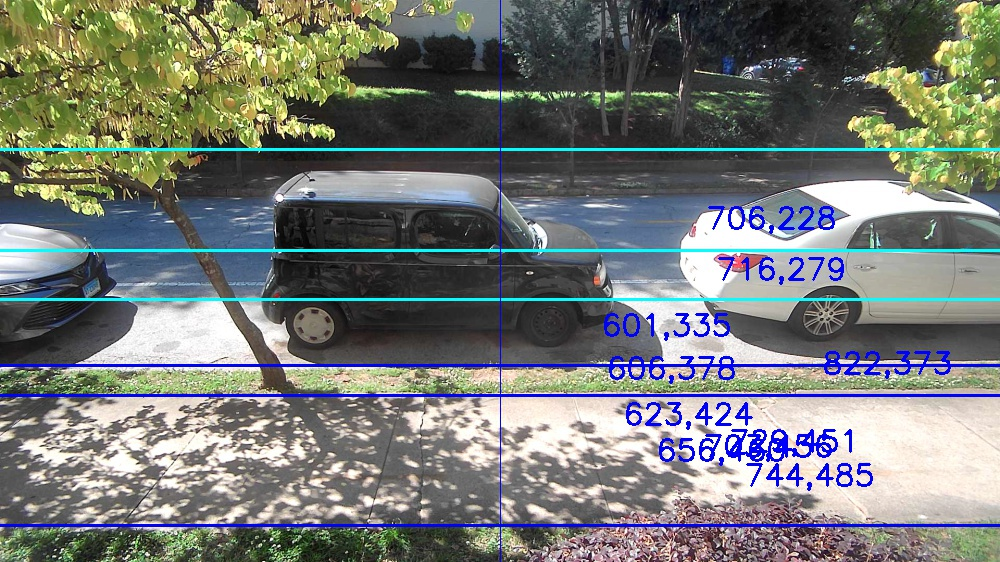
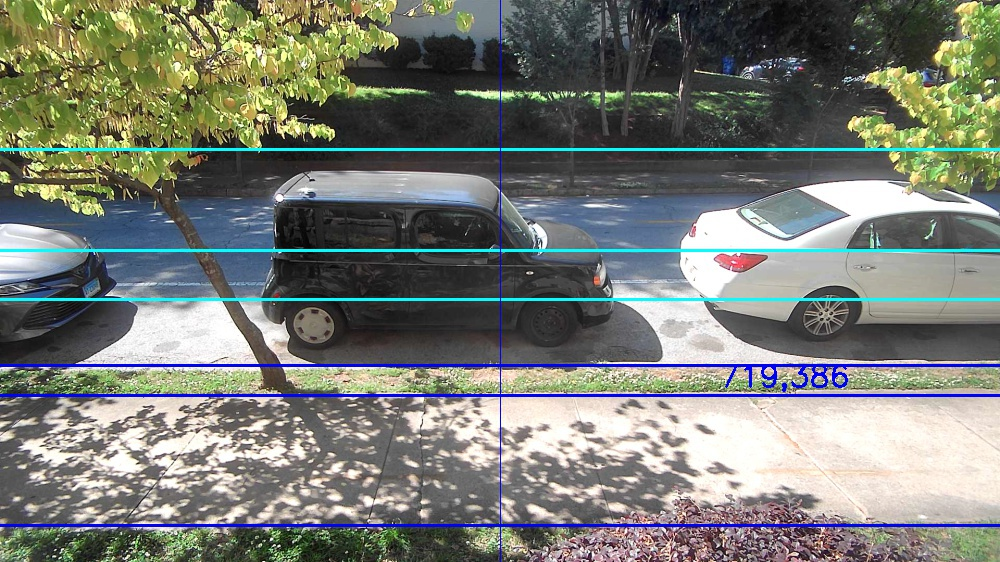
added server

diff --git a/pw_server.py b/pw_server.py
@@ -1,0 +1,140 @@
+import socket
+import select
+
+HEADER_LENGTH = 10
+
+IP = "127.0.0.1"
+PORT = 1234
+
+# Create a socket
+# socket.AF_INET - address family, IPv4, some otehr possible are AF_INET6, AF_BLUETOOTH, AF_UNIX
+# socket.SOCK_STREAM - TCP, conection-based, socket.SOCK_DGRAM - UDP, connectionless, datagrams, socket.SOCK_RAW - raw IP packets
+server_socket = socket.socket(socket.AF_INET, socket.SOCK_STREAM)
+
+# SO_ - socket option
+# SOL_ - socket option level
+# Sets REUSEADDR (as a socket option) to 1 on socket
+server_socket.setsockopt(socket.SOL_SOCKET, socket.SO_REUSEADDR, 1)
+
+# Bind, so server informs operating system that it's going to use given IP and port
+# For a server using 0.0.0.0 means to listen on all available interfaces, useful to connect locally to 127.0.0.1 and remotely to LAN interface IP
+server_socket.bind((IP, PORT))
+
+# This makes server listen to new connections
+server_socket.listen()
+
+# List of sockets for select.select()
+sockets_list = [server_socket]
+
+# List of connected clients - socket as a key, user header and name as data
+clients = {}
+
+print(f'Listening for connections on {IP}:{PORT}...')
+
+# Handles message receiving
+def receive_message(client_socket):
+
+    try:
+
+        # Receive our "header" containing message length, it's size is defined and constant
+        message_header = client_socket.recv(HEADER_LENGTH)
+
+        # If we received no data, client gracefully closed a connection, for example using socket.close() or socket.shutdown(socket.SHUT_RDWR)
+        if not len(message_header):
+            return False
+
+        # Convert header to int value
+        message_length = int(message_header.decode('utf-8').strip())
+
+        # Return an object of message header and message data
+        return {'header': message_header, 'data': client_socket.recv(message_length)}
+
+    except:
+
+        # If we are here, client closed connection violently, for example by pressing ctrl+c on his script
+        # or just lost his connection
+        # socket.close() also invokes socket.shutdown(socket.SHUT_RDWR) what sends information about closing the socket (shutdown read/write)
+        # and that's also a cause when we receive an empty message
+        return False
+
+while True:
+
+    # Calls Unix select() system call or Windows select() WinSock call with three parameters:
+    #   - rlist - sockets to be monitored for incoming data
+    #   - wlist - sockets for data to be send to (checks if for example buffers are not full and socket is ready to send some data)
+    #   - xlist - sockets to be monitored for exceptions (we want to monitor all sockets for errors, so we can use rlist)
+    # Returns lists:
+    #   - reading - sockets we received some data on (that way we don't have to check sockets manually)
+    #   - writing - sockets ready for data to be send thru them
+    #   - errors  - sockets with some exceptions
+    # This is a blocking call, code execution will "wait" here and "get" notified in case any action should be taken
+    read_sockets, _, exception_sockets = select.select(sockets_list, [], sockets_list)
+
+
+    # Iterate over notified sockets
+    for notified_socket in read_sockets:
+
+        # If notified socket is a server socket - new connection, accept it
+        if notified_socket == server_socket:
+
+            # Accept new connection
+            # That gives us new socket - client socket, connected to this given client only, it's unique for that client
+            # The other returned object is ip/port set
+            client_socket, client_address = server_socket.accept()
+
+            # Client should send his name right away, receive it
+            user = receive_message(client_socket)
+
+            # If False - client disconnected before he sent his name
+            if user is False:
+                continue
+
+            # Add accepted socket to select.select() list
+            sockets_list.append(client_socket)
+
+            # Also save username and username header
+            clients[client_socket] = user
+
+            print('Accepted new connection from {}:{}, username: {}'.format(*client_address, user['data'].decode('utf-8')))
+
+        # Else existing socket is sending a message
+        else:
+
+            # Receive message
+            message = receive_message(notified_socket)
+
+            # If False, client disconnected, cleanup
+            if message is False:
+                print('Closed connection from: {}'.format(clients[notified_socket]['data'].decode('utf-8')))
+
+                # Remove from list for socket.socket()
+                sockets_list.remove(notified_socket)
+
+                # Remove from our list of users
+                del clients[notified_socket]
+
+                continue
+
+            # Get user by notified socket, so we will know who sent the message
+            user = clients[notified_socket]
+
+            print(f'Received message from {user["data"].decode("utf-8")}: {message["data"].decode("utf-8")}')
+
+            # Iterate over connected clients and broadcast message
+            for client_socket in clients:
+
+                # But don't sent it to sender
+                if client_socket != notified_socket:
+
+                    # Send user and message (both with their headers)
+                    # We are reusing here message header sent by sender, and saved username header send by user when he connected
+                    client_socket.send(user['header'] + user['data'] + message['header'] + message['data'])
+
+    # It's not really necessary to have this, but will handle some socket exceptions just in case
+    for notified_socket in exception_sockets:
+
+        # Remove from list for socket.socket()
+        sockets_list.remove(notified_socket)
+
+        # Remove from our list of users
+        del clients[notified_socket]

diff --git a/vehicle/car.py b/vehicle/car.py
@@ -1,0 +1,81 @@
+import socket
+import errno
+
+HEADER_LENGTH = 10
+
+IP = "127.0.0.1"
+PORT = 1234
+my_username = input("Username: ")
+
+# Create a socket
+# socket.AF_INET - address family, IPv4, some other possible are AF_INET6, AF_BLUETOOTH, AF_UNIX
+# socket.SOCK_STREAM - TCP, conection-based, socket.SOCK_DGRAM - UDP, connectionless, datagrams, socket.SOCK_RAW - raw IP packets
+client_socket = socket.socket(socket.AF_INET, socket.SOCK_STREAM)
+
+# Connect to a given ip and port
+client_socket.connect((IP, PORT))
+
+# Set connection to non-blocking state, so .recv() call won;t block, just return some exception we'll handle
+client_socket.setblocking(False)
+
+# Prepare username and header and send them
+# We need to encode username to bytes, then count number of bytes and prepare header of fixed size, that we encode to bytes as well
+username = my_username.encode('utf-8')
+username_header = f"{len(username):<{HEADER_LENGTH}}".encode('utf-8')
+client_socket.send(username_header + username)
+
+while True:
+
+    # Wait for user to input a message
+    message = input(f'{my_username} > ')
+
+    # If message is not empty - send it
+    if message:
+
+        # Encode message to bytes, prepare header and convert to bytes, like for username above, then send
+        message = message.encode('utf-8')
+        message_header = f"{len(message):<{HEADER_LENGTH}}".encode('utf-8')
+        client_socket.send(message_header + message)
+
+    try:
+        # Now we want to loop over received messages (there might be more than one) and print them
+        while True:
+
+            # Receive our "header" containing username length, it's size is defined and constant
+            username_header = client_socket.recv(HEADER_LENGTH)
+
+            # If we received no data, server gracefully closed a connection, for example using socket.close() or socket.shutdown(socket.SHUT_RDWR)
+            if not len(username_header):
+                print('Connection closed by the server')
+                sys.exit()
+
+            # Convert header to int value
+            username_length = int(username_header.decode('utf-8').strip())
+
+            # Receive and decode username
+            username = client_socket.recv(username_length).decode('utf-8')
+
+            # Now do the same for message (as we received username, we received whole message, there's no need to check if it has any length)
+            message_header = client_socket.recv(HEADER_LENGTH)
+            message_length = int(message_header.decode('utf-8').strip())
+            message = client_socket.recv(message_length).decode('utf-8')
+
+            # Print message
+            print(f'{username} > {message}')
+
+    except IOError as e:
+        # This is normal on non blocking connections - when there are no incoming data error is going to be raised
+        # Some operating systems will indicate that using AGAIN, and some using WOULDBLOCK error code
+        # We are going to check for both - if one of them - that's expected, means no incoming data, continue as normal
+        # If we got different error code - something happened
+        if e.errno != errno.EAGAIN and e.errno != errno.EWOULDBLOCK:
+            print('Reading error: {}'.format(str(e)))
+            sys.exit()
+
+        # We just did not receive anything
+        continue
+
+    except Exception as e:
+        # Any other exception - something happened, exit
+        print('Reading error: '.format(str(e)))
+        sys.exit()

diff --git a/measure_functions.py b/measure_functions.py
@@ -14,15 +14,19 @@ def get_coordinate(xp,yp):
 
     # p3 (selected point)
     p3 = np.array((xp,yp))
+  
     # p4 (vanishing point at infinity)
     p4 = np.array(vp)  
 
     delta_x = p3[0] - p4[0]
     delta_y = p3[1] - p4[1]
     hyp = np.sqrt(delta_x**2 + delta_y**2)
+
+    # theta in [-pi/2, pi/2]
     cos_theta = delta_y / hyp
     sin_theta = delta_x / hyp
     tan_theta = delta_x / delta_y
+    # print(np.arctan(tan_theta)*180/np.pi)
 
     # compute the ratio
     # the points are 
@@ -34,9 +38,9 @@ def get_coordinate(xp,yp):
     p1_y = param.yp_sw_close
     p2_y = param.yp_sw_far
 
-    p1_x = p4[0] - tan_theta*(p4[1] - p1_y)
+    p1_x = p4[0] + (p1_y - p4[1])*tan_theta
     p1 = np.array((p1_x,p1_y))
-    p2_x = p4[0] - tan_theta*(p4[1] - p2_y)
+    p2_x = p4[0] + (p2_y - p4[1])*tan_theta
     p2 = np.array((p2_x,p2_y))
 
     # compute ratio
@@ -55,7 +59,7 @@ def get_coordinate(xp,yp):
     # compute D, the distance from p2 to p3
     cross_ratio = (d_p1p3*d_p2p4)/(d_p2p3*d_p1p4)
 
-    if p3[1] > param.yp_sw_far:
+    if p3[1] < param.yp_sw_far:
         D_P2P3 = d_P1P2/(cross_ratio - 1)
         P3_Y = cos_theta*D_P2P3 + P2_Y
     else:
@@ -63,6 +67,7 @@ def get_coordinate(xp,yp):
         P3_Y = P2_Y - cos_theta*D_P2P3
     
     print(P3_Y)
+    # need to figure out x coordinate
     
 
 def coordinate_click_event(event, x, y, flags, img):

diff --git a/main.py b/main.py
@@ -3,9 +3,13 @@ import numpy as np
 import argparse
 import cv2
 import time
+import socket
+import pickle
 import localizer_params as param
 import drawing_functions as drw
 import measure_functions as meas
+
+HEADERSIZE = 10 
 
 # construct the argument parse and parse the arguments
 ap = argparse.ArgumentParser()
@@ -13,7 +17,10 @@ ap.add_argument("-s", "--source",
 	help = "specify v for video feed or img file for static image.")
 ap.add_argument("-v", "--verbose",
 	help = "various functions will provide extra information.")
+ap.add_argument("-c", "--connect", action = "store_true",
+	help = "Connect to server and send data.")
 args = vars(ap.parse_args())
+
 
 if args['source'] == 'v':
 	# get video stream
@@ -22,13 +29,13 @@ if args['source'] == 'v':
 else:
 	img = args['source']
 	frame = cv2.imread(img)
+
+if args['connect'] == True:
+	s = socket.socket(socket.AF_INET, socket.SOCK_STREAM)
+	s.connect((socket.gethostname(), 1234))
 	
-
-
-# set properties of frame
-# time.sleep(2.0)
-
 while True:
+
 	if args['source'] == 'v':
 		ret, frame = cap.read()
 

diff --git a/vehicle/clienty.py b/vehicle/clienty.py
@@ -1,0 +1,37 @@
+import socket
+import pickle
+
+HEADERSIZE = 10 
+
+s = socket.socket(socket.AF_INET, socket.SOCK_STREAM)
+s.connect((socket.gethostname(), 1234))
+
+while True:
+    full_msg = b''
+    new_msg = True
+
+    while True:
+        
+        msg = s.recv(16) # buffer in number of bytes
+        if new_msg:
+            print(f"new message length: {msg[:HEADERSIZE]}")
+            msglen = int(msg[:HEADERSIZE])
+            new_msg = False
+        
+        print(msg)
+        full_msg += msg
+
+        if len(full_msg)-HEADERSIZE == msglen:
+            print("full msg recvd")
+            print(full_msg[HEADERSIZE:])
+
+            d = pickle.loads(full_msg[HEADERSIZE:])
+
+            print(d)
+
+            new_msg = True
+            full_msg = ''
+
+
+
+    

diff --git a/vehicle/server.py b/vehicle/server.py
@@ -1,0 +1,21 @@
+import socket
+import pickle
+
+
+HEADERSIZE = 10 
+
+s = socket.socket(socket.AF_INET, socket.SOCK_STREAM)
+s.bind((socket.gethostname(), 1234))
+s.listen(5) # leave a queue of 5
+
+
+while True:
+    clientsocket, address = s.accept()
+    print(f"Connection from {address} has been established.")
+
+    d = {1:"hi", 2: "there"}
+    msg = pickle.dumps(d)
+    print(msg)
+    msg = bytes(f'{len(msg):<{HEADERSIZE}}', "utf-8") + msg
+
+    clientsocket.send(msg)

diff --git a/localizer_params.py b/localizer_params.py
@@ -19,4 +19,4 @@ yp_center_line = int(yp_center_line_pct*frame_height)
 yp_road_far = int(yp_road_far_pct*frame_height)
 
 # vanishing point
-vanish_point = (300,20)
+vanish_point = (490,0)

diff --git a/vehicle/vh_app.py b/vehicle/vh_app.py
@@ -1,0 +1,5 @@
+import requests as req
+
+resp = req.get("http://0.0.0.0:5000")
+
+print(resp.text)
